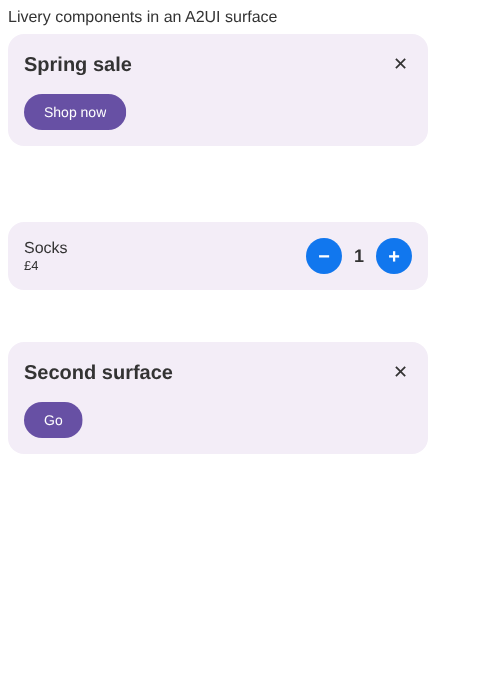
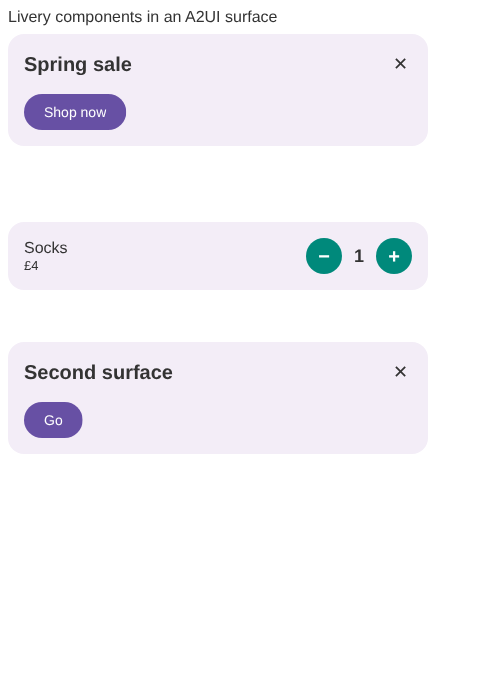
feat(web): a surface's createSurface primaryColor colours its Livery templates
The agent's theme (A2UI's createSurface primaryColor) fills the primary
role ahead of the page's CSS theme, so a template takes the agent's brand
colour when it gives one and matches the page's components when it
doesn't. The browser test themes its first surface and checks the
stepper draws in that colour while the second surface keeps the page's.

Claude-Session: https://claude.ai/code/session_017xSuvptvDKqjeZ4p7Mu1Nr

Changed region(s): [[0.7812, 0.33, 0.875, 0.39], [0.625, 0.33, 0.7188, 0.39]]

diff --git a/web/a2ui/src/catalog.ts b/web/a2ui/src/catalog.ts
@@ -122,6 +122,7 @@ class LiveryElement extends A2uiLitElement {
     private sequence = 0;
     /** The agent's design failed to play: render the automatic choice instead, until the props change. */
     private automatic = false;
+    private lastTheme?: Record<string, string>;
     private automaticFor?: string;
     /** A fetch for this element's images failed: if it renders waiting again, it can't draw. */
     private imagesFailed = false;
@@ -132,6 +133,11 @@ class LiveryElement extends A2uiLitElement {
     /** Documents this element's player loaded and values it set: a data change sets values, never reloads. */
     get liveryStats(): { loads: number; sets: number } | undefined {
       return this.player?.stats;
+    }
+
+    /** The theme roles of the last render, as `#AARRGGBB`. @internal For tests. */
+    get liveryTheme(): Record<string, string> | undefined {
+      return this.lastTheme;
     }
 
     /** This element's catalog entry: the session, spec and options of the catalog it was rendered from. */
@@ -208,7 +214,8 @@ class LiveryElement extends A2uiLitElement {
       if (this.automaticFor !== undefined && this.automaticFor !== asked) this.automatic = false;
       if (this.automatic) { this.automaticFor ??= asked; delete props[DESIGN]; } else this.automaticFor = undefined;
       const density = window.devicePixelRatio || 1;
-      const space = { widthDp: this.widthDp || Math.round(this.clientWidth) || undefined, heightDp: Math.round(this.clientHeight) || undefined, density, theme: themeOf(this), decisionId: this.decisionId() };
+      const space = { widthDp: this.widthDp || Math.round(this.clientWidth) || undefined, heightDp: Math.round(this.clientHeight) || undefined, density, theme: themeOf(this, this.context?.theme), decisionId: this.decisionId() };
+      this.lastTheme = space.theme;
       const request = JSON.stringify([props, space]);
       if (request === this.request) return;
       this.request = request;
@@ -316,13 +323,17 @@ class LiveryElement extends A2uiLitElement {
  * Theme role inputs from CSS: `--livery-<role>` (kebab-case), else A2UI's own `--a2ui-color-<role>`,
  * else Material 3's baseline, as `#AARRGGBB`.
  */
-function themeOf(el: HTMLElement): Record<string, string> {
+function themeOf(el: HTMLElement, surface?: Record<string, unknown>): Record<string, string> {
   const style = getComputedStyle(el);
   const out: Record<string, string> = {};
+  // The agent's own colour first: A2UI's createSurface theme (`primaryColor` → `primary`).
+  const agent: Record<string, unknown> = { primary: surface?.primaryColor };
   for (const role of THEME_ROLES) {
     const name = kebab(role);
+    const asked = agent[role];
+    const fromAgent = typeof asked === 'string' ? cssColorToArgb(asked, el) : undefined;
     const value = style.getPropertyValue(`--livery-${name}`).trim() || style.getPropertyValue(`--a2ui-color-${name}`).trim();
-    out[role] = (value ? cssColorToArgb(value, el) : undefined) ?? BASELINE[role];
+    out[role] = fromAgent ?? (value ? cssColorToArgb(value, el) : undefined) ?? BASELINE[role];
   }
   return out;
 }

diff --git a/web/a2ui/test/app.ts b/web/a2ui/test/app.ts
@@ -17,7 +17,7 @@ const { catalog, components } = await liveryCatalog(session, {
 });
 const processor = new MessageProcessor([catalog as any], (a) => { actions.push(a); });
 processor.processMessages([
-  { version: 'v0.9', createSurface: { surfaceId: 'chat-1', catalogId: CATALOG_ID } },
+  { version: 'v0.9', createSurface: { surfaceId: 'chat-1', catalogId: CATALOG_ID, theme: { primaryColor: '#00897B' } } },
   { version: 'v0.9', updateDataModel: { surfaceId: 'chat-1', path: '/', value: { offer: { title: 'Spring sale' }, cart: { quantity: 1 } } } },
   {
     version: 'v0.9',

diff --git a/docs/A2UI.md b/docs/A2UI.md
@@ -191,10 +191,12 @@ in place and the first frame already shows current data.
 
 ### Theme
 
-A theme role input (`"role": "primary"`) is filled, in order, from the agent's literal or binding,
-from the surface theme the agent sent in `createSurface` (`primaryColor` → `theme.primary`), and
-from the host's Material colour scheme. So a Livery component matches the A2UI components around
-it without the agent saying anything.
+A theme role input (`"role": "primary"`) isn't one of the component's properties, so the agent
+doesn't set it per component. It is filled, in order, from the surface theme the agent sent in
+`createSurface` (`primaryColor` → `primary`), then from the host's colours. So a Livery component
+matches the A2UI components around it without the agent saying anything, and takes the agent's
+brand colour when the agent gives one. *Built* on the web; A2UI's Compose runtime doesn't give a
+component its surface's theme, so on Compose the roles come from the host's Material colours.
 
 ### Choosing and drawing the template
 
@@ -332,8 +334,9 @@ the other clients and needs no fixture of its own beyond the ones Kotlin already
 - **Events.** Every event of a component carries `decisionId` `a2ui:<surfaceId>/<componentId>`,
   from `componentModel.id` and `dataContext.surface.id`; the page reads them with
   `session.events()`.
-- **Theme.** Each role (`primary`, `surface`, `onSurface`, …) from `--livery-<role>`, else A2UI's
-  own `--a2ui-color-<role>`, else Material 3's baseline, so a template matches the basic
+- **Theme.** `primary` from the surface's `createSurface` theme (`primaryColor`) when the agent
+  sent one; each role (`primary`, `surface`, `onSurface`, …) otherwise from `--livery-<role>`, else
+  A2UI's own `--a2ui-color-<role>`, else Material 3's baseline, so a template matches the basic
   components beside it.
 - **Size.** The width the element gets selects the design (and redraws on a resize); the height
   is `--livery-a2ui-height`, until the height rule below.
@@ -429,7 +432,8 @@ What the prototype taught, and what it doesn't do yet:
 - **Not yet:** the projection lives in the Compose module rather than `livery-a2ui`; no
   conformance fixture; events carry no `a2ui:<surface>/<component>` decision id (A2UI's `A2uiComponentScope` exposes
   neither id; the web has it); the
-  `createSurface` theme isn't read (theme roles come from the host's Material colours); no
+  `createSurface` theme isn't read (theme roles come from the host's Material colours; the web
+  reads it); no
   `template` forms other than the design preference, or height rules beyond the template's own.
 
 ## Order of work

diff --git a/web/a2ui/README.md b/web/a2ui/README.md
@@ -52,9 +52,10 @@ page without one uses an import map.
 
 Each theme role (`primary`, `surface`, `onSurface`, …) comes from the first of these that is set:
 
-1. `--livery-<role>`, for example `--livery-on-surface`.
-2. A2UI's `--a2ui-color-<role>`.
-3. Material 3's baseline colour.
+1. For `primary`, the agent's `createSurface` theme: `primaryColor`.
+2. `--livery-<role>`, for example `--livery-on-surface`.
+3. A2UI's `--a2ui-color-<role>`.
+4. Material 3's baseline colour.
 
 Templates therefore match the basic components around them. The width the element gets selects
 the design. The height is `--livery-a2ui-height`, 200px by default.
@@ -68,10 +69,11 @@ npm test                                                    # headless Chromium 
 ```
 
 `npm test` serves the sample catalog to a page that runs A2UI's own engine and Lit renderer, then
-checks five things:
+checks six things:
 
 - both templates draw on a canvas in the page, with no iframe;
 - an action reaches the agent with only its declared arguments, and a `set` writes the data model;
 - a data change sets values on the playing document without reloading it, and redraws it;
 - Livery's events carry the A2UI decision id, `a2ui:<surfaceId>/<componentId>`;
+- a surface's `primaryColor` colours its templates over the page's CSS theme;
 - a second catalog's components keep their own session.
